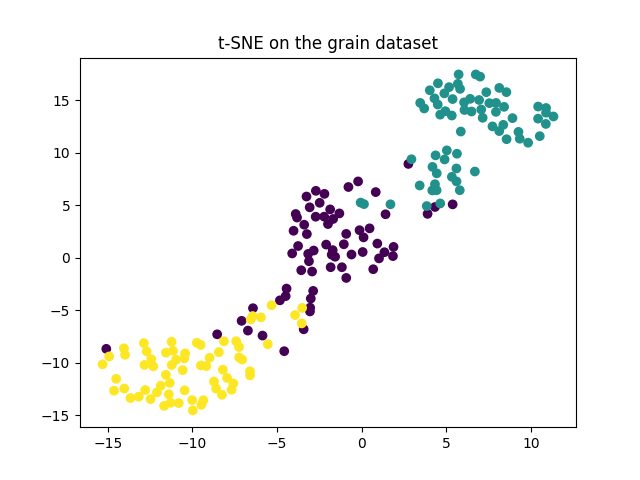
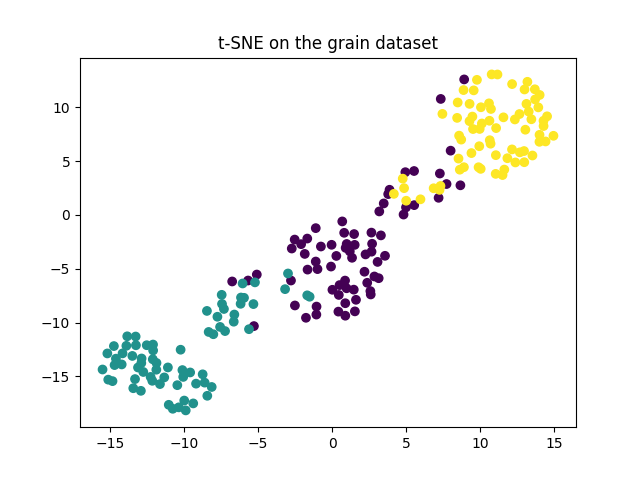
Bugfixes.

diff --git a/Week_08 - Unsupervised Learning/README.md b/Week_08 - Unsupervised Learning/README.md
@@ -83,19 +83,19 @@ python task03.py
 Data:
 
       area  perimeter  compactness  length_of_kernel  width_of_kernel  asymmetry_coefficient  length_of_kernel_groove  varieties
-0    15.26      14.84       0.8710             5.763            3.312                  2.221                    5.220        1.0
-1    14.88      14.57       0.8811             5.554            3.333                  1.018                    4.956        1.0
-2    14.29      14.09       0.9050             5.291            3.337                  2.699                    4.825        1.0
-3    13.84      13.94       0.8955             5.324            3.379                  2.259                    4.805        1.0
-4    16.14      14.99       0.9034             5.658            3.562                  1.355                    5.175        1.0
+0    15.26      14.84       0.8710             5.763            3.312                  2.221                    5.220          1
+1    14.88      14.57       0.8811             5.554            3.333                  1.018                    4.956          1
+2    14.29      14.09       0.9050             5.291            3.337                  2.699                    4.825          1
+3    13.84      13.94       0.8955             5.324            3.379                  2.259                    4.805          1
+4    16.14      14.99       0.9034             5.658            3.562                  1.355                    5.175          1
 ..     ...        ...          ...               ...              ...                    ...                      ...        ...
-205  12.19      13.20       0.8783             5.137            2.981                  3.631                    4.870        3.0
-206  11.23      12.88       0.8511             5.140            2.795                  4.325                    5.003        3.0
-207  13.20      13.66       0.8883             5.236            3.232                  8.315                    5.056        3.0
-208  11.84      13.21       0.8521             5.175            2.836                  3.598                    5.044        3.0
-209  12.30      13.34       0.8684             5.243            2.974                  5.637                    5.063        3.0
+205  12.19      13.20       0.8783             5.137            2.981                  3.631                    4.870          3
+206  11.23      12.88       0.8511             5.140            2.795                  4.325                    5.003          3
+207  13.20      13.66       0.8883             5.236            3.232                  8.315                    5.056          3
+208  11.84      13.21       0.8521             5.175            2.836                  3.598                    5.044          3
+209  12.30      13.34       0.8684             5.243            2.974                  5.637                    5.063          3
 
-[199 rows x 8 columns]
+[210 rows x 8 columns]
 ```
 
 The following plot gets generated:
@@ -125,9 +125,9 @@ python task04.py
 ```console
 varieties  Canadian wheat  Kama wheat  Rosa wheat
 row_0                                            
-0                      64           8           0
-1                       0           1          59
-2                       1          57           9
+0                       2          60          10
+1                      68           9           0
+2                       0           1          60
 ```
 
 ## Task 05
